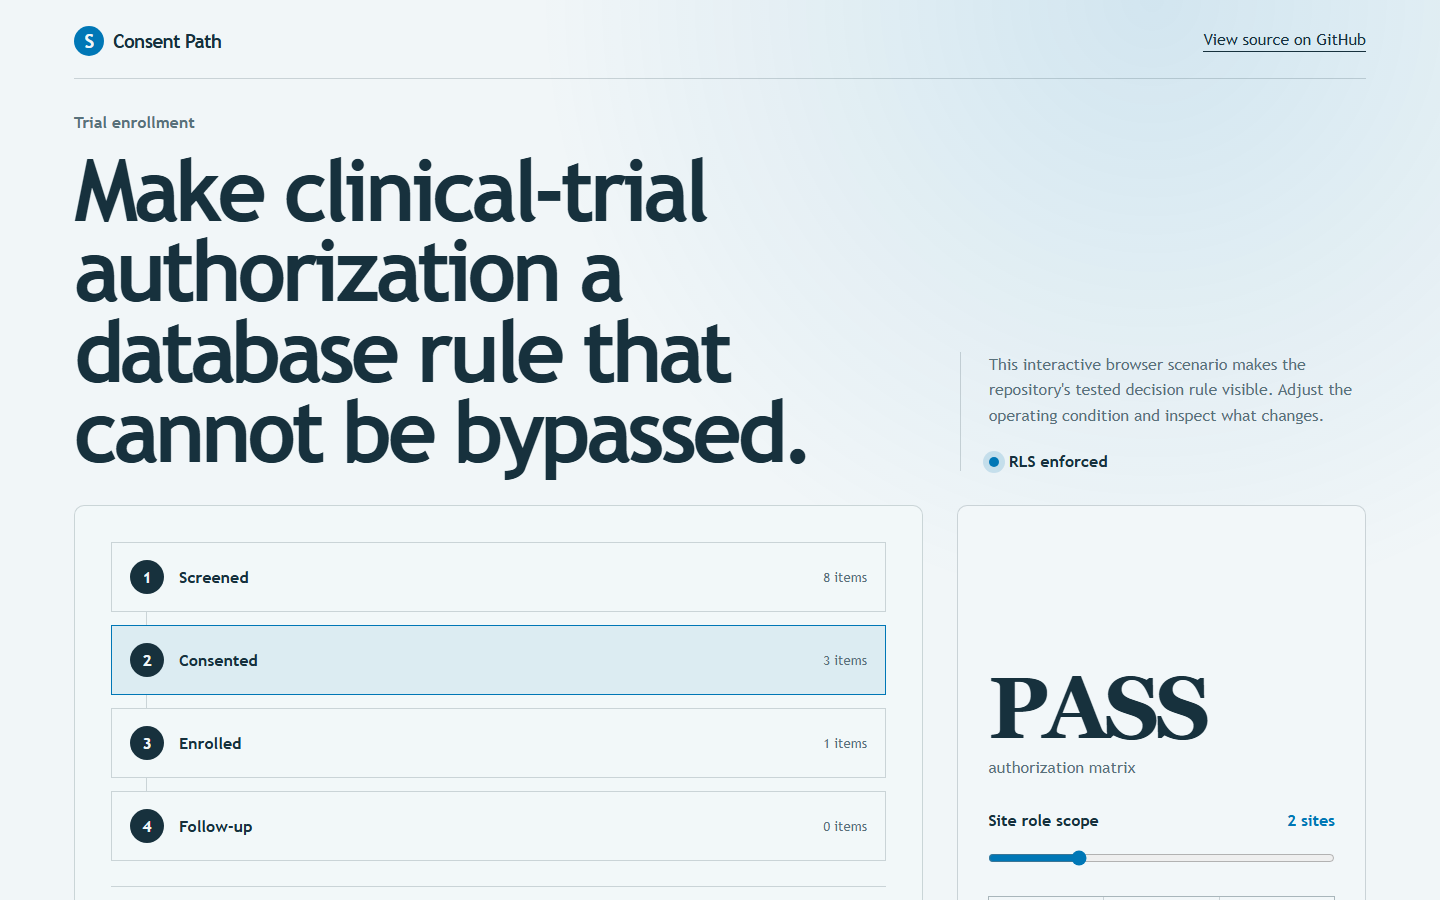
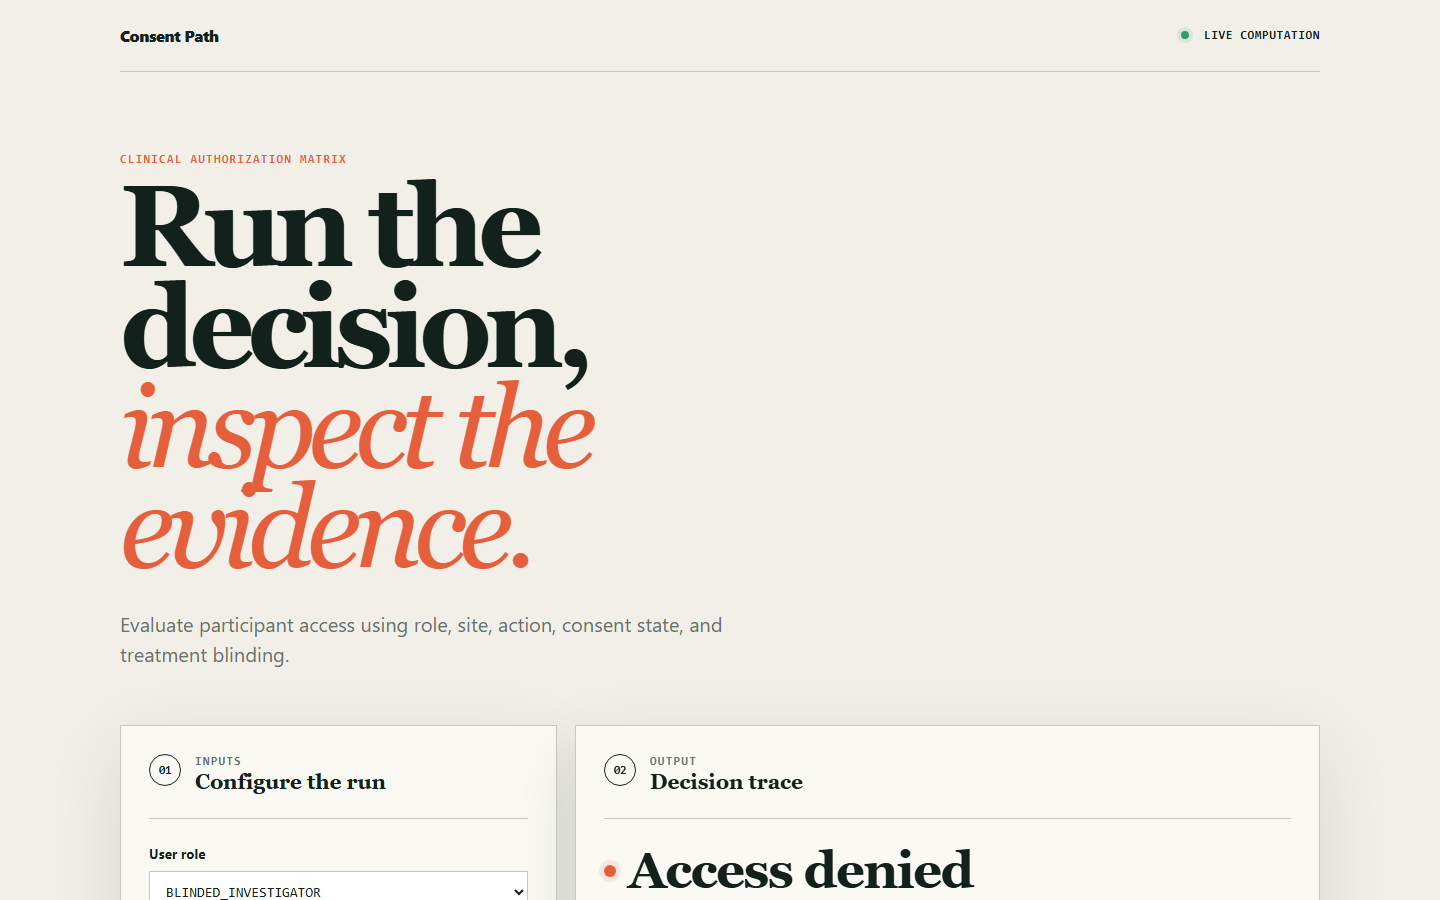
docs: show working deployed application

diff --git a/README.md b/README.md
@@ -6,9 +6,9 @@
 
 [![CI and deployment](https://github.com/SlateGitOrg/consentpath/actions/workflows/ci.yml/badge.svg?branch=main)](https://github.com/SlateGitOrg/consentpath/actions/workflows/ci.yml)
 
-[Open the interactive Consent Path demo](https://slategitorg.github.io/consentpath/)
+[Open the working Consent Path application](https://slategitorg.github.io/consentpath/)
 
-The deployed interface uses a deterministic offline scenario to make the repository's tested decision rule visible without external services or private data.
+This deployed application runs the project's decision workflow in the browser. Change the inputs, run the analysis, and inspect the computed metrics and decision trace.
 
 ### Desktop
 
